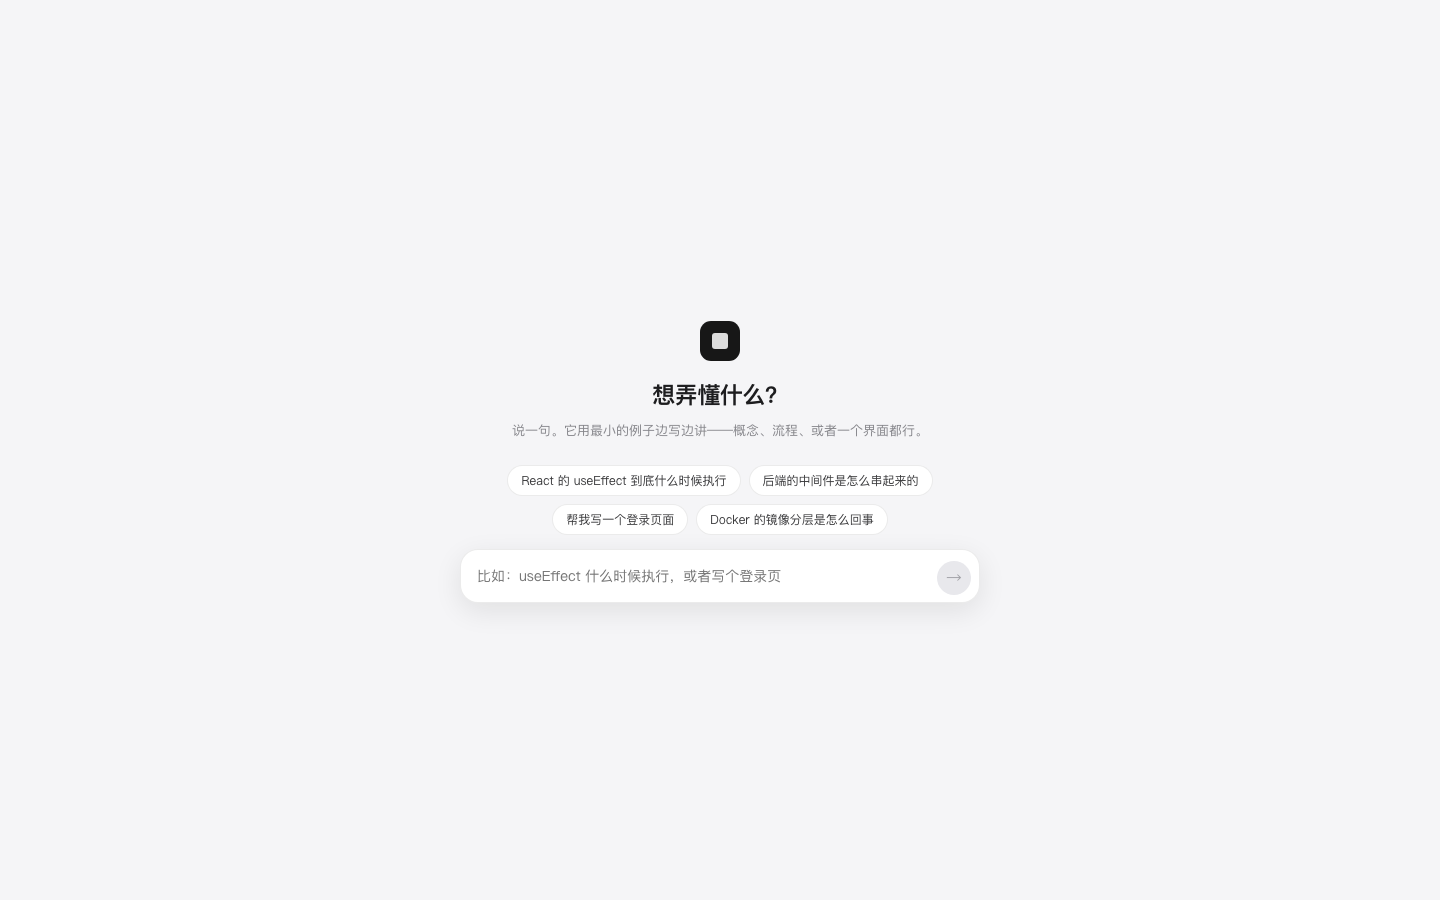
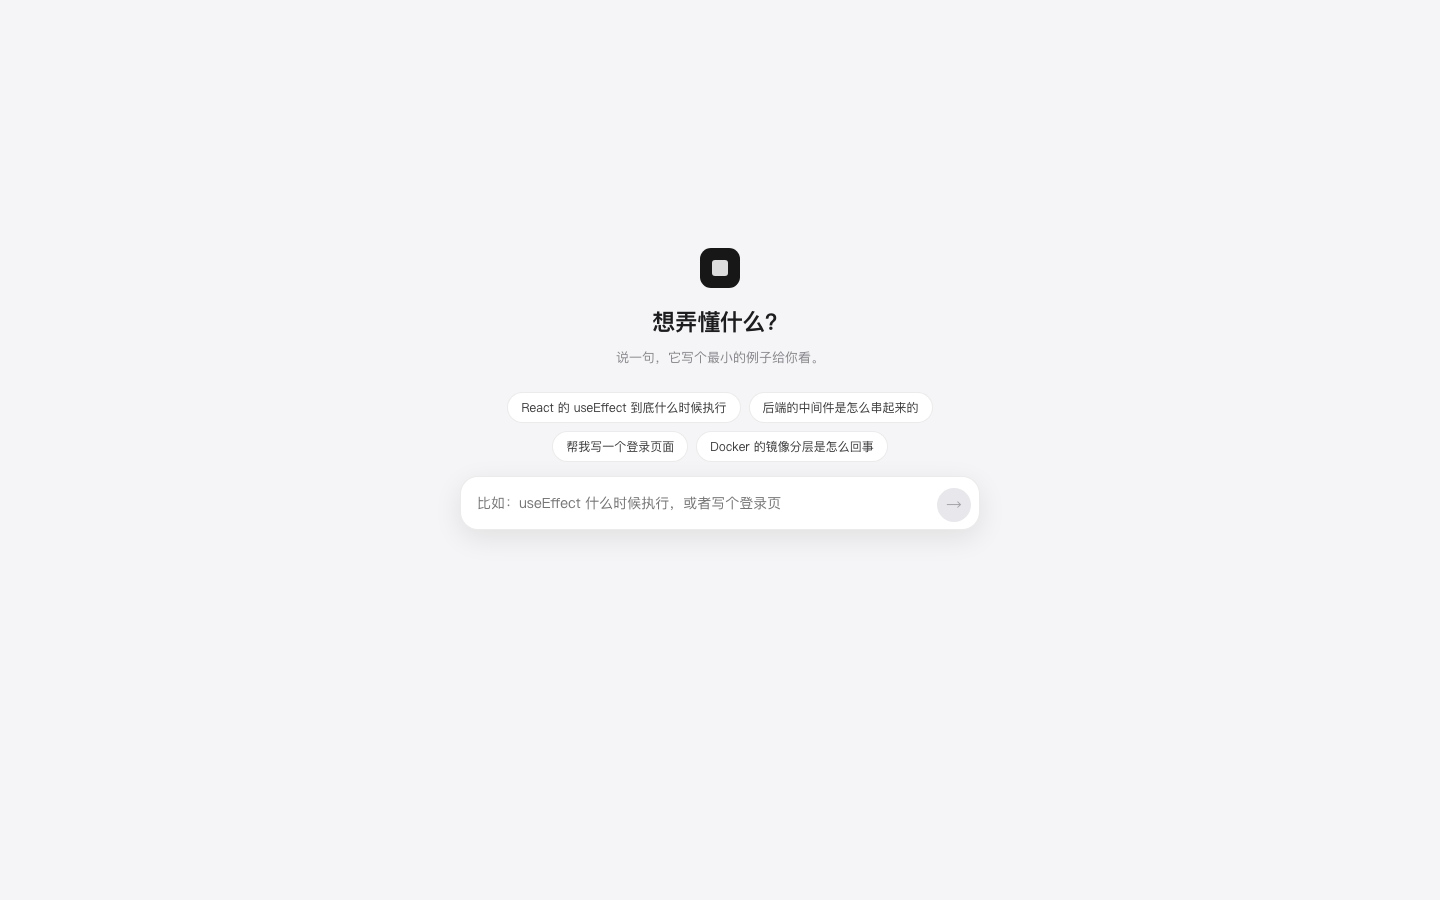
style: 首页内容整体上移，不再压在中线
底部留白从 24px 加到 18vh，视觉重心上移约 60px。

Changed region(s): [[0.375, 0.28, 0.625, 0.4978], [0.3438, 0.5289, 0.625, 0.5911], [0.3438, 0.6222, 0.5312, 0.6533]]

diff --git a/web/src/styles.css b/web/src/styles.css
@@ -64,7 +64,8 @@ button {
   min-height: 0;
   display: grid;
   place-items: center;
-  padding: 48px 24px 24px;
+  /* 底部留白更大 → 视觉重心上移，避免整块压在正中 */
+  padding: 40px 24px 18vh;
 }
 
 .ask-inner {
